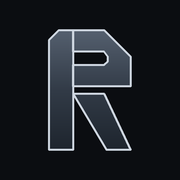
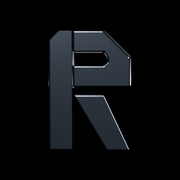
Güncelleme

Changed region(s): [[0.25, 0.1389, 0.75, 0.8611]]

diff --git a/index.html b/index.html
@@ -10,7 +10,7 @@
 <meta property="og:image" content="https://ridsgames.github.io/assets/sulu-halka.jpg">
 <meta name="theme-color" content="#07080B">
 <meta name="color-scheme" content="dark">
-<link rel="icon" href="assets/icon.svg" type="image/svg+xml">
+<link rel="icon" href="assets/icon.png" type="image/png">
 <link rel="apple-touch-icon" href="assets/apple-touch-icon.png">
 <link rel="preconnect" href="https://fonts.googleapis.com">
 <link rel="preconnect" href="https://fonts.gstatic.com" crossorigin>
@@ -53,7 +53,7 @@ h1, h2, h3 { font-family: var(--display); line-height: 1.08; margin: 0; color: #
 /* Üst çubuk */
 .bar { display: flex; justify-content: flex-end; padding-top: 16px; }
 .hero { display: flex; justify-content: center; padding: 28px 20px 52px; }
-.hero img { display: block; width: min(520px, 78vw); height: auto; filter: drop-shadow(0 18px 30px rgba(0,0,0,.7)); }
+.hero img { display: block; width: min(520px, 78vw); height: auto; mix-blend-mode: lighten; }
 .bar nav { display: flex; gap: 22px; font-family: var(--display); font-weight: 600; font-size: 16px; }
 .bar nav a { text-decoration: none; color: var(--steel-dim); }
 .bar nav a:hover { color: #fff; }
@@ -133,7 +133,7 @@ section.shelf.first { border-top: 0; padding-top: 20px; }
 
 footer { border-top: 1px solid var(--line); padding-top: 32px; padding-bottom: calc(44px + env(safe-area-inset-bottom)); color: var(--steel-dim); font-size: 14px; }
 .foot { display: flex; align-items: center; justify-content: space-between; gap: 16px; flex-wrap: wrap; }
-.foot img { display: block; height: 48px; width: auto; }
+.foot img { display: block; height: 48px; width: auto; mix-blend-mode: lighten; }
 
 @media (max-width: 880px) {
   .games { grid-template-columns: 1fr 1fr; }
@@ -166,7 +166,7 @@ footer { border-top: 1px solid var(--line); padding-top: 32px; padding-bottom: c
     <a href="#destek">Destek</a>
   </nav>
 </header>
-<div class="hero"><h1 style="margin:0"><img src="assets/logo-dark.svg" alt="Ridsgames" width="520" height="240"></h1></div>
+<div class="hero"><h1 style="margin:0"><img src="assets/logo.webp" alt="Ridsgames" width="520" height="241"></h1></div>
 
 <main>
   <section class="shelf first wrap" id="basit-oyunlar" aria-labelledby="h-basit">
@@ -232,7 +232,7 @@ footer { border-top: 1px solid var(--line); padding-top: 32px; padding-bottom: c
   </section>
 </main>
 
-<footer class="wrap foot"><img src="assets/logo-compact-dark.svg" alt="Ridsgames" width="134" height="48"><span>© 2026 Ridsgames. Tüm hakları saklıdır.</span></footer>
+<footer class="wrap foot"><img src="assets/logo-rids.webp" alt="Ridsgames" width="133" height="48"><span>© 2026 Ridsgames. Tüm hakları saklıdır.</span></footer>
 
 </body>
 </html>

diff --git a/gizlilik.html b/gizlilik.html
@@ -2,7 +2,7 @@
 <html lang="tr">
 <head>
 <meta charset="utf-8">
-<link rel="icon" href="assets/icon.svg" type="image/svg+xml">
+<link rel="icon" href="assets/icon.png" type="image/png">
 <link rel="apple-touch-icon" href="assets/apple-touch-icon.png">
 <meta name="color-scheme" content="dark">
 <meta name="viewport" content="width=device-width, initial-scale=1">
@@ -16,7 +16,7 @@
 body { margin: 0; background: var(--water); color: var(--ink); font: 16px/1.7 "Barlow", "Segoe UI", system-ui, sans-serif; }
 .bar { max-width: 760px; margin: 0 auto; padding: 18px 20px; }
 .logo { display: inline-flex; align-items: center; gap: 10px; text-decoration: none; color: var(--ink); font: 700 22px "Chakra Petch", "Segoe UI", system-ui, sans-serif; }
-.logo img { display: block; height: 40px; width: auto; }
+.logo img { display: block; height: 40px; width: auto; mix-blend-mode: lighten; }
 main { max-width: 760px; margin: 0 auto 56px; padding: 32px 28px 40px; background: var(--surface); --cut: 18px; clip-path: polygon(var(--cut) 0, 100% 0, 100% calc(100% - var(--cut)), calc(100% - var(--cut)) 100%, 0 100%, 0 var(--cut)); }
 h1, h2, th { color: #EEF3F9; }
 h1 { font: 700 clamp(30px, 6vw, 40px)/1.15 "Chakra Petch", "Segoe UI", system-ui, sans-serif; margin: 0 0 14px; }
@@ -37,7 +37,7 @@ footer { margin-top: 40px; padding-top: 18px; border-top: 2px dashed var(--line)
 </style>
 </head>
 <body>
-<header class="bar"><a class="logo" href="./" aria-label="Ridsgames ana sayfa"><img src="assets/logo-compact-dark.svg" alt="Ridsgames" height="40" width="112"></a></header>
+<header class="bar"><a class="logo" href="./" aria-label="Ridsgames ana sayfa"><img src="assets/logo-rids.webp" alt="Ridsgames" height="40" width="111"></a></header>
 <main>
 <h1>Gizlilik Politikası</h1>
 <ul><li><strong>Uygulama:</strong> Misket Klasik (İngilizce adı: Classic Marbles)</li><li><strong>Geliştirici:</strong> Ridsgame</li><li><strong>Yürürlük tarihi:</strong> 27 Eylül 2026</li><li><strong>İletişim:</strong> ridsgames.destek@gmail.com</li></ul>

diff --git a/privacy.html b/privacy.html
@@ -2,7 +2,7 @@
 <html lang="en">
 <head>
 <meta charset="utf-8">
-<link rel="icon" href="assets/icon.svg" type="image/svg+xml">
+<link rel="icon" href="assets/icon.png" type="image/png">
 <link rel="apple-touch-icon" href="assets/apple-touch-icon.png">
 <meta name="color-scheme" content="dark">
 <meta name="viewport" content="width=device-width, initial-scale=1">
@@ -16,7 +16,7 @@
 body { margin: 0; background: var(--water); color: var(--ink); font: 16px/1.7 "Barlow", "Segoe UI", system-ui, sans-serif; }
 .bar { max-width: 760px; margin: 0 auto; padding: 18px 20px; }
 .logo { display: inline-flex; align-items: center; gap: 10px; text-decoration: none; color: var(--ink); font: 700 22px "Chakra Petch", "Segoe UI", system-ui, sans-serif; }
-.logo img { display: block; height: 40px; width: auto; }
+.logo img { display: block; height: 40px; width: auto; mix-blend-mode: lighten; }
 main { max-width: 760px; margin: 0 auto 56px; padding: 32px 28px 40px; background: var(--surface); --cut: 18px; clip-path: polygon(var(--cut) 0, 100% 0, 100% calc(100% - var(--cut)), calc(100% - var(--cut)) 100%, 0 100%, 0 var(--cut)); }
 h1, h2, th { color: #EEF3F9; }
 h1 { font: 700 clamp(30px, 6vw, 40px)/1.15 "Chakra Petch", "Segoe UI", system-ui, sans-serif; margin: 0 0 14px; }
@@ -37,7 +37,7 @@ footer { margin-top: 40px; padding-top: 18px; border-top: 2px dashed var(--line)
 </style>
 </head>
 <body>
-<header class="bar"><a class="logo" href="./" aria-label="Ridsgames ana sayfa"><img src="assets/logo-compact-dark.svg" alt="Ridsgames" height="40" width="112"></a></header>
+<header class="bar"><a class="logo" href="./" aria-label="Ridsgames ana sayfa"><img src="assets/logo-rids.webp" alt="Ridsgames" height="40" width="111"></a></header>
 <main>
 <h1>Privacy Policy</h1>
 <ul><li><strong>App:</strong> Classic Marbles (Turkish name: Misket Klasik)</li><li><strong>Developer:</strong> Ridsgame</li><li><strong>Effective date:</strong> September 27, 2026</li><li><strong>Contact:</strong> ridsgames.destek@gmail.com</li></ul>

diff --git a/sartlar.html b/sartlar.html
@@ -2,7 +2,7 @@
 <html lang="tr">
 <head>
 <meta charset="utf-8">
-<link rel="icon" href="assets/icon.svg" type="image/svg+xml">
+<link rel="icon" href="assets/icon.png" type="image/png">
 <link rel="apple-touch-icon" href="assets/apple-touch-icon.png">
 <meta name="color-scheme" content="dark">
 <meta name="viewport" content="width=device-width, initial-scale=1">
@@ -16,7 +16,7 @@
 body { margin: 0; background: var(--water); color: var(--ink); font: 16px/1.7 "Barlow", "Segoe UI", system-ui, sans-serif; }
 .bar { max-width: 760px; margin: 0 auto; padding: 18px 20px; }
 .logo { display: inline-flex; align-items: center; gap: 10px; text-decoration: none; color: var(--ink); font: 700 22px "Chakra Petch", "Segoe UI", system-ui, sans-serif; }
-.logo img { display: block; height: 40px; width: auto; }
+.logo img { display: block; height: 40px; width: auto; mix-blend-mode: lighten; }
 main { max-width: 760px; margin: 0 auto 56px; padding: 32px 28px 40px; background: var(--surface); --cut: 18px; clip-path: polygon(var(--cut) 0, 100% 0, 100% calc(100% - var(--cut)), calc(100% - var(--cut)) 100%, 0 100%, 0 var(--cut)); }
 h1, h2, th { color: #EEF3F9; }
 h1 { font: 700 clamp(30px, 6vw, 40px)/1.15 "Chakra Petch", "Segoe UI", system-ui, sans-serif; margin: 0 0 14px; }
@@ -37,7 +37,7 @@ footer { margin-top: 40px; padding-top: 18px; border-top: 2px dashed var(--line)
 </style>
 </head>
 <body>
-<header class="bar"><a class="logo" href="./" aria-label="Ridsgames ana sayfa"><img src="assets/logo-compact-dark.svg" alt="Ridsgames" height="40" width="112"></a></header>
+<header class="bar"><a class="logo" href="./" aria-label="Ridsgames ana sayfa"><img src="assets/logo-rids.webp" alt="Ridsgames" height="40" width="111"></a></header>
 <main>
 <h1>Kullanım Şartları</h1>
 <ul><li><strong>Uygulama:</strong> Misket Klasik (İngilizce adı: Classic Marbles)</li><li><strong>Geliştirici:</strong> Ridsgame</li><li><strong>Yürürlük tarihi:</strong> 4 Ekim 2026</li></ul>

diff --git a/terms.html b/terms.html
@@ -2,7 +2,7 @@
 <html lang="en">
 <head>
 <meta charset="utf-8">
-<link rel="icon" href="assets/icon.svg" type="image/svg+xml">
+<link rel="icon" href="assets/icon.png" type="image/png">
 <link rel="apple-touch-icon" href="assets/apple-touch-icon.png">
 <meta name="color-scheme" content="dark">
 <meta name="viewport" content="width=device-width, initial-scale=1">
@@ -16,7 +16,7 @@
 body { margin: 0; background: var(--water); color: var(--ink); font: 16px/1.7 "Barlow", "Segoe UI", system-ui, sans-serif; }
 .bar { max-width: 760px; margin: 0 auto; padding: 18px 20px; }
 .logo { display: inline-flex; align-items: center; gap: 10px; text-decoration: none; color: var(--ink); font: 700 22px "Chakra Petch", "Segoe UI", system-ui, sans-serif; }
-.logo img { display: block; height: 40px; width: auto; }
+.logo img { display: block; height: 40px; width: auto; mix-blend-mode: lighten; }
 main { max-width: 760px; margin: 0 auto 56px; padding: 32px 28px 40px; background: var(--surface); --cut: 18px; clip-path: polygon(var(--cut) 0, 100% 0, 100% calc(100% - var(--cut)), calc(100% - var(--cut)) 100%, 0 100%, 0 var(--cut)); }
 h1, h2, th { color: #EEF3F9; }
 h1 { font: 700 clamp(30px, 6vw, 40px)/1.15 "Chakra Petch", "Segoe UI", system-ui, sans-serif; margin: 0 0 14px; }
@@ -37,7 +37,7 @@ footer { margin-top: 40px; padding-top: 18px; border-top: 2px dashed var(--line)
 </style>
 </head>
 <body>
-<header class="bar"><a class="logo" href="./" aria-label="Ridsgames ana sayfa"><img src="assets/logo-compact-dark.svg" alt="Ridsgames" height="40" width="112"></a></header>
+<header class="bar"><a class="logo" href="./" aria-label="Ridsgames ana sayfa"><img src="assets/logo-rids.webp" alt="Ridsgames" height="40" width="111"></a></header>
 <main>
 <h1>Terms of Use</h1>
 <ul><li><strong>App:</strong> Classic Marbles (Turkish name: Misket Klasik)</li><li><strong>Developer:</strong> Ridsgame</li><li><strong>Effective date:</strong> October 4, 2026</li></ul>
